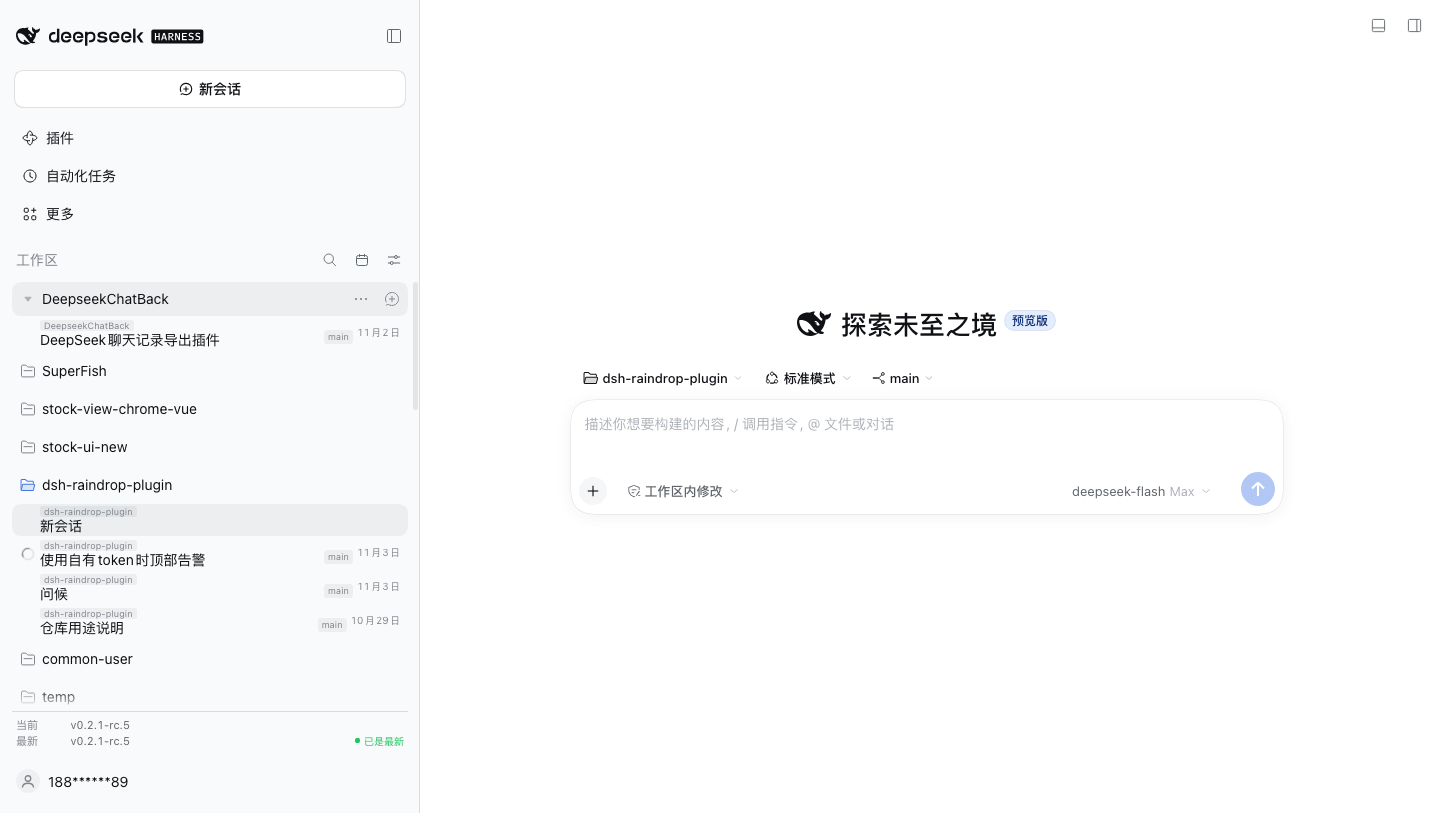
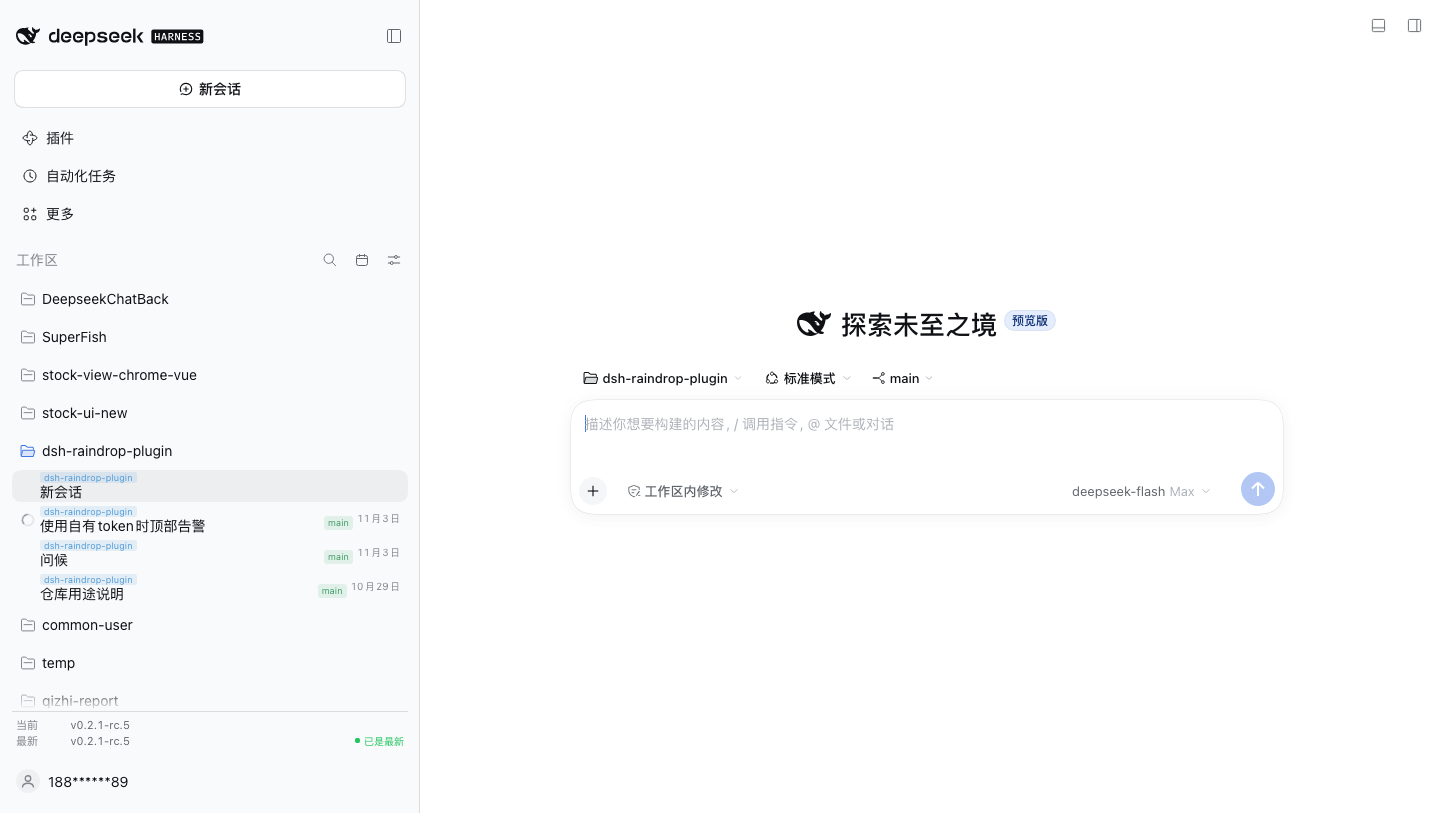
style: tint session project and branch labels
- show the project label in light blue on a soft blue fill
- show the branch badge in light green on a soft green fill
- keep the compact 9px labels, 32px rows, and the amber mismatch state
- bump the package to 0.8.1

Changed region(s): [[0.0, 0.3998, 0.1562, 0.8918], [0.25, 0.738, 0.2812, 0.7688], [0.2188, 0.7073, 0.25, 0.738]]

diff --git a/lib/client.js b/lib/client.js
@@ -147,8 +147,8 @@ window.__ModuleLoader__.load({
 	margin-right: 4px;
 	padding: 0 4px;
 	border-radius: 4px;
-	background: var(--dsw-alias-interactive-bg-hover, rgba(0, 0, 0, .06));
-	color: var(--dsw-alias-label-tertiary, #8a8f98);
+	background: rgba(76, 175, 114, .14);
+	color: #3f9e68;
 	font-size: 9px;
 	line-height: 14px;
 	letter-spacing: 0;
@@ -176,8 +176,8 @@ window.__ModuleLoader__.load({
 	margin: 0;
 	padding: 0 4px;
 	border-radius: 3px;
-	background: var(--dsw-alias-interactive-bg-hover, rgba(0, 0, 0, .06));
-	color: var(--dsw-alias-label-tertiary, #8a8f98);
+	background: rgba(91, 155, 213, .14);
+	color: #4f9bd9;
 	font-size: 9px;
 	line-height: 11px;
 	letter-spacing: 0;

diff --git a/README.md b/README.md
@@ -17,8 +17,8 @@ Sessions outside the current year include the year (`2025年10月29日`); the En
 - **Workspace picker search**: opening the new-session workspace menu adds a search field at the top. The picker shows at most five workspaces at a time; the rest scroll, with the search field and the add-workspace footer staying visible. Typing filters the list to matching workspaces. `↑`/`↓` move the highlight, `Home`/`End` jump to the first/last match, and `Enter` switches to the highlighted row (or, when nothing is highlighted, the exact label, then the first match). With no match the field's underline turns orange and `Enter` does nothing.
 - **Own-quota alert**: while the model selected for the conversation on screen is served by your own DeepSeek account (`deepseek-account` login route or `deepseek-official` API-key route), a fixed amber strip at the top of the window reads **“正在使用自己的额度！”** / **“You are using your own quota!”**. It disappears as soon as another provider is selected and never blocks the UI. Third-party gateways such as `qz` keep their own billing and do not trigger it.
 - **DSH versions**: the sidebar footer above the account row shows the **running** release (`当前` / `Current`) and npm's **latest** `@deepseek-ai/dsh` release (`最新` / `Latest`), with a green `已是最新` / `Up to date` or amber `可更新` / `Update` badge. It refreshes every 15 minutes and hides when the sidebar is collapsed.
-- **Project label**: each Session row shows its workspace/project name above the title, so a flat session list reads `dsh-raindrop-plugin` / `DeepseekChatBack` / `SuperFish` at a glance. The full directory path is the hover title. The label sits on its own compact line, so it does not steal horizontal room from the Session title.
-- **Session git version**: each Session records the git branch of its working directory when it is created, and its row shows a branch badge. Opening the Session again switches the directory back to that branch when the tree is clean; with uncommitted changes it only warns and leaves the working tree alone.
+- **Project label**: each Session row shows its workspace/project name above the title as a small light-blue label (light-blue text on a soft blue fill), so a flat session list reads `dsh-raindrop-plugin` / `DeepseekChatBack` / `SuperFish` at a glance. The full directory path is the hover title. The label sits on its own compact line, so it does not steal horizontal room from the Session title.
+- **Session git version**: each Session records the git branch of its working directory when it is created, and its row shows a small light-green branch badge (the mismatch warning stays amber). Opening the Session again switches the directory back to that branch when the tree is clean; with uncommitted changes it only warns and leaves the working tree alone.
 - **Date view panel**: the calendar button in the sidebar header, left of the native view-options sliders.
   - Show date: `Last activity` / `First message`
   - Sort by date: `Default (sidebar order)` / `Date: newest first` / `Date: oldest first`
@@ -57,7 +57,7 @@ The sidebar footer above the account row shows both releases:
 
 ![Session project label](docs/session-project.png)
 
-Every Session row carries a small, muted project line directly above its title. The label answers the question a flat, cross-workspace session list cannot: which project does this conversation belong to?
+Every Session row carries a small light-blue project label directly above its title: light-blue text on a soft blue fill. The label answers the question a flat, cross-workspace session list cannot: which project does this conversation belong to?
 
 - **Name source**: the Session's workspace title first (workspace membership in the public `workspaces` store), then the longest matching workspace path for the Session's `cwd`, then the workspace group header already around the row, then the final segment of `cwd`.
 - **Full path**: hover the title line; its native tooltip is the workspace (or session) directory. The label never exposes prompts, messages, or credentials.
@@ -68,7 +68,7 @@ Every Session row carries a small, muted project line directly above its title. 
 
 When a Session is created, the Host half reads the branch of its `cwd` and stores it in `$DSH_HOME/storages/raindrop-plugin-session-git.json`. The file only maps `sessionId → { branch, directory }`; it holds no commits, files, or prompts.
 
-- **Badge**: a small branch pill (for example `dev-20261011`) sits left of the clock cell in the Session row; hovering shows the full name. While the row is hovered the cell makes way for the native action buttons.
+- **Badge**: a small light-green branch pill (for example `dev-20261011`) sits left of the clock cell in the Session row; hovering shows the full name. While the row is hovered the cell makes way for the native action buttons.
 - **Mismatch**: when the directory's current branch differs from the recorded one, the pill turns amber and its tooltip names both branches.
 - **Automatic restore**: opening (or switching to) a Session re-reads the real branch:
   - same → nothing happens;
@@ -156,12 +156,12 @@ The plugin can also be switched off entirely from the GUI's plugin settings, lik
 
 13. The Host half listens to the public `session/created` event and records `git -C <header.cwd> rev-parse --abbrev-ref HEAD`; Sessions that predate the plugin are backfilled the first time `GET /session-git/branches` sees them, and a directory that is not a repository is not retried for ten minutes.
 14. `GET /session-git/branches` returns `{ sessions: { [id]: { branch, cwd, inferred, detached } }, current: { [cwd]: branch }, fetchedAt }`. `current` lets the browser mark mismatches without running git; the body is cached for five seconds.
-15. `POST /session-git/restore` accepts only `{ sessionId }`: it re-reads the real branch and runs `git switch` (or `checkout` on older git) only when `git status --porcelain` is clean and the branch still exists. Requests for the same directory are serialized so two opens cannot race one checkout. The badge and the date share the row's clock `<span>` (`::before` for the branch, `::after` for the date); no React-managed node is inserted or moved.
+15. `POST /session-git/restore` accepts only `{ sessionId }`: it re-reads the real branch and runs `git switch` (or `checkout` on older git) only when `git status --porcelain` is clean and the branch still exists. Requests for the same directory are serialized so two opens cannot race one checkout. The light-green badge and the date share the row's clock `<span>` (`::before` for the branch, `::after` for the date); no React-managed node is inserted or moved.
 
 **Session project label**
 
 16. The public `ctx.get("workspaces")` store lists workspaces with `title`, `path`, and `sessionIds`. The plugin first resolves a Session by membership, then by the longest workspace `path` that prefixes `cwd`, then by the workspace group header around the row, then by the final `cwd` segment. The full resolved path becomes the title span's native tooltip.
-17. The title span (CSS-module local `_title`) gets `data-dsh-session-project`; a stylesheet paints the name as a 9px label line above the title and tightens that row's title line to 17px, so the existing 32px row fits both. No React-managed text node or child is inserted, and the label re-stamps with the sessions and workspaces stores.
+17. The title span (CSS-module local `_title`) gets `data-dsh-session-project`; a stylesheet paints the name as a light-blue 9px label line above the title and tightens that row's title line to 17px, so the existing 32px row fits both. No React-managed text node or child is inserted, and the label re-stamps with the sessions and workspaces stores.
 
 If a future DSH build renames the CSS-module local, the plugin falls back to the row's third direct `<span>` for the clock and its second direct `<span>` for the title; if the row structure changes entirely, it becomes a no-op rather than mangling the row. Sorting/filtering likewise only engages when the structure matches.
 

diff --git a/README.zh.md b/README.zh.md
@@ -17,8 +17,8 @@
 - **工作区搜索**：打开“新会话”的工作区菜单后，顶部会出现搜索框。工作区菜单最多显示 5 行，其余滚动，搜索框和“添加工作区”固定在两端；输入时列表只保留匹配的工作区；`↑`/`↓` 移动高亮，`Home`/`End` 跳到第一个/最后一个匹配项，`Enter` 切到当前高亮项（没有高亮时优先名称完全匹配，其次第一个匹配项）。没有匹配时输入框下划线变橙色，`Enter` 不动作。
 - **自有额度告警**：当前会话选中的模型由自己的 DeepSeek 账号提供时（`deepseek-account` 账号登录路由或 `deepseek-official` 官方 API Key 路由），窗口顶部会固定显示一条琥珀色告警：**“正在使用自己的额度！”**（英文界面为 **“You are using your own quota!”**）。切到其他供应商后立即消失，不遮挡、不拦截操作。`qz` 等第三方网关有自己的计费，不会触发。
 - **DSH 版本**：侧栏底部账号行上方显示**当前**运行的版本和 npm 上的**最新** `@deepseek-ai/dsh` 版本，并用绿色 `已是最新` 或橙色 `可更新` 标记差异；每 15 分钟刷新一次，侧栏折叠时隐藏。
-- **项目标签**：每个会话行在标题上方显示所属工作区/项目名，平铺的会话列表也能一眼看出 `dsh-raindrop-plugin` / `DeepseekChatBack` / `SuperFish` 等来源；悬停标题可看完整目录。项目名单独占一行，不占标题的横向空间。
-- **会话 git 版本**：会话创建时记录其工作目录所在的 git 分支，会话行时钟旁显示分支徽标；重新打开会话时若当前分支与记录不一致，工作区干净就自动 `git switch` 回该分支，有未提交改动则只提示、不动工作区。
+- **项目标签**：每个会话行在标题上方显示所属工作区/项目名，做成浅蓝色的小标签（浅蓝底、浅蓝字），平铺的会话列表也能一眼看出 `dsh-raindrop-plugin` / `DeepseekChatBack` / `SuperFish` 等来源；悬停标题可看完整目录。项目名单独占一行，不占标题的横向空间。
+- **会话 git 版本**：会话创建时记录其工作目录所在的 git 分支，会话行时钟旁显示浅绿色分支徽标（不一致时保持琥珀色警告）；重新打开会话时若当前分支与记录不一致，工作区干净就自动 `git switch` 回该分支，有未提交改动则只提示、不动工作区。
 - **日期视图面板**：侧栏头部的日历按钮（在原生“视图选项”滑杆按钮左侧）。
   - 显示日期：`最后活动` / `首次对话`
   - 按日期排序：`默认（侧栏排序）` / `日期：新 → 旧` / `日期：旧 → 新`
@@ -57,7 +57,7 @@ const OWN_QUOTA_PROVIDERS = new Set(["deepseek-account", "deepseek-official"]);
 
 ![会话项目标签](docs/session-project.png)
 
-每个会话行的标题正上方有一条浅色的项目名。对于跨工作区平铺的会话列表，它能直接回答“这条会话属于哪个项目”。
+每个会话行的标题正上方有一条浅蓝色的项目标签：浅蓝底、浅蓝字。对于跨工作区平铺的会话列表，它能直接回答“这条会话属于哪个项目”。
 
 - **名称来源**：优先取会话所属工作区的标题（公开 `workspaces` store 的成员关系），其次取 `cwd` 匹配到的最长工作区路径，再次取行所在的工作区分组标题，最后回退到 `cwd` 的最后一段目录名。
 - **完整路径**：悬停标题显示原生 tooltip，内容是工作区或会话目录；标签不会读取提示词、消息或凭据。
@@ -68,7 +68,7 @@ const OWN_QUOTA_PROVIDERS = new Set(["deepseek-account", "deepseek-official"]);
 
 会话创建时，Host 半读取该会话 `cwd` 的当前分支，存进 `$DSH_HOME/storages/raindrop-plugin-session-git.json`；文件里只有 `sessionId → { 分支, 目录 }`，没有提交内容、文件或提示词。
 
-- **显示**：会话行的时钟位置左侧显示分支小徽标（如 `dev-20261011`），悬停可看完整分支名；鼠标停在行上时该区域让位给原生操作按钮。
+- **显示**：会话行的时钟位置左侧显示浅绿色分支小徽标（如 `dev-20261011`），悬停可看完整分支名；鼠标停在行上时该区域让位给原生操作按钮。
 - **不一致**：目录当前分支与记录不同时，徽标变琥珀色，悬停提示同时给出两个分支。
 - **自动回切**：打开（或切到）会话时，Host 重新读取真实分支：
   - 一致 → 什么也不做；
@@ -157,12 +157,12 @@ const SHOW_YEAR = "auto";   // auto | always | never
 
 13. Host 半监听公开的 `session/created` 事件，对 `header.cwd` 执行 `git -C <cwd> rev-parse --abbrev-ref HEAD` 记录分支；插件安装前的历史会话在 `GET /session-git/branches` 首次出现时补记。
 14. `GET /session-git/branches` 返回 `{ sessions: { [id]: { branch, cwd, inferred, detached } }, current: { [cwd]: 当前分支 }, fetchedAt }`；`current` 让浏览器不执行 git 也能把徽标标成不一致，5 秒缓存。
-15. `POST /session-git/restore` 只接受 `{ sessionId }`：重新读取真实分支，`git status --porcelain` 干净且分支存在时才 `git switch`（旧版 git 回退 `checkout`）；同一目录的请求串行化，避免并发切换。徽标和日期共用行内时钟 `<span>`（日期用 `::after`、分支用 `::before`），不插入、不移动 React 管理的节点。
+15. `POST /session-git/restore` 只接受 `{ sessionId }`：重新读取真实分支，`git status --porcelain` 干净且分支存在时才 `git switch`（旧版 git 回退 `checkout`）；同一目录的请求串行化，避免并发切换。浅绿色徽标和日期共用行内时钟 `<span>`（日期用 `::after`、分支用 `::before`），不插入、不移动 React 管理的节点。
 
 **会话项目标签**
 
 16. 公开的 `ctx.get("workspaces")` store 列出工作区的 `title`、`path` 和 `sessionIds`。插件先按成员关系匹配会话，再按 `cwd` 匹配最长的工作区路径前缀，再取行所在的工作区分组标题，最后回退到 `cwd` 的最后一段；完整路径写入标题 `<span>` 的原生 tooltip。
-17. 标题 `<span>`（CSS Module 类名以 `_title` 结尾）加上 `data-dsh-session-project` 属性；样式把它画成标题上方的 9px 小标签，并把该行标题行高收紧到 17px，两行正好放进原来的 32px 行高。不插入、不替换任何 React 管理的文本节点或子节点；会话列表或工作区列表变化时重新打戳。
+17. 标题 `<span>`（CSS Module 类名以 `_title` 结尾）加上 `data-dsh-session-project` 属性；样式把它画成标题上方的 9px 浅蓝色小标签，并把该行标题行高收紧到 17px，两行正好放进原来的 32px 行高。不插入、不替换任何 React 管理的文本节点或子节点；会话列表或工作区列表变化时重新打戳。
 
 如果以后 DSH 改了 CSS Module 的类名，插件会回退到“时钟用行内第三个直接 `<span>`、标题用第二个直接 `<span>`”；如果整行结构都变了，它只会失效（变成 no-op），不会破坏行内容。排序/筛选同样只在结构匹配时生效。
 
